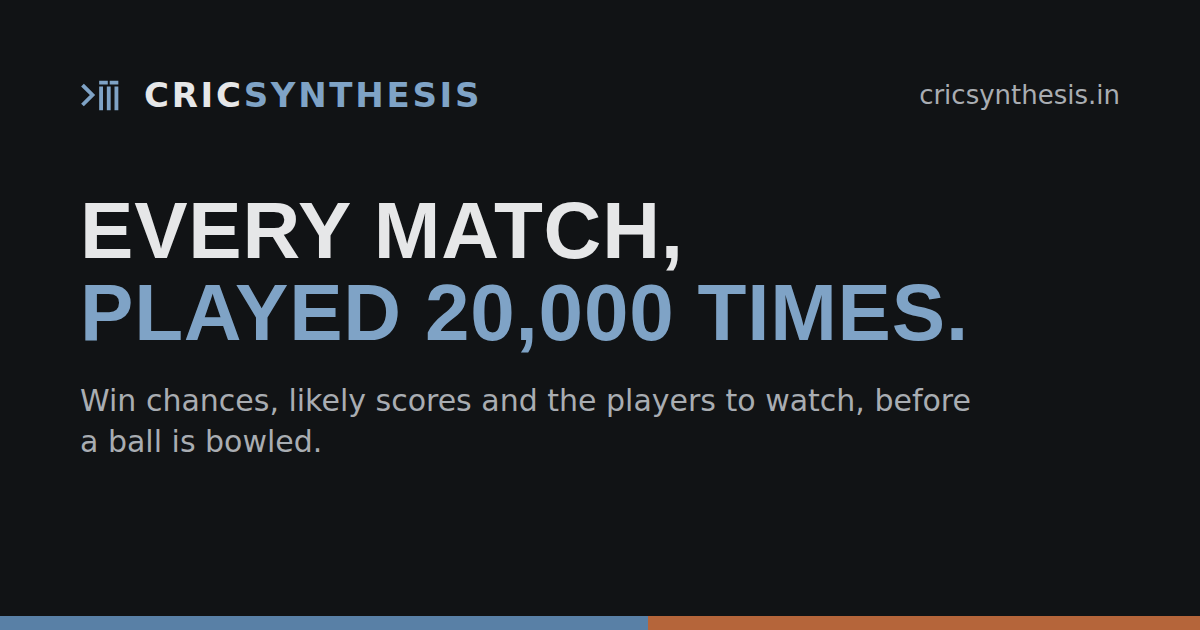
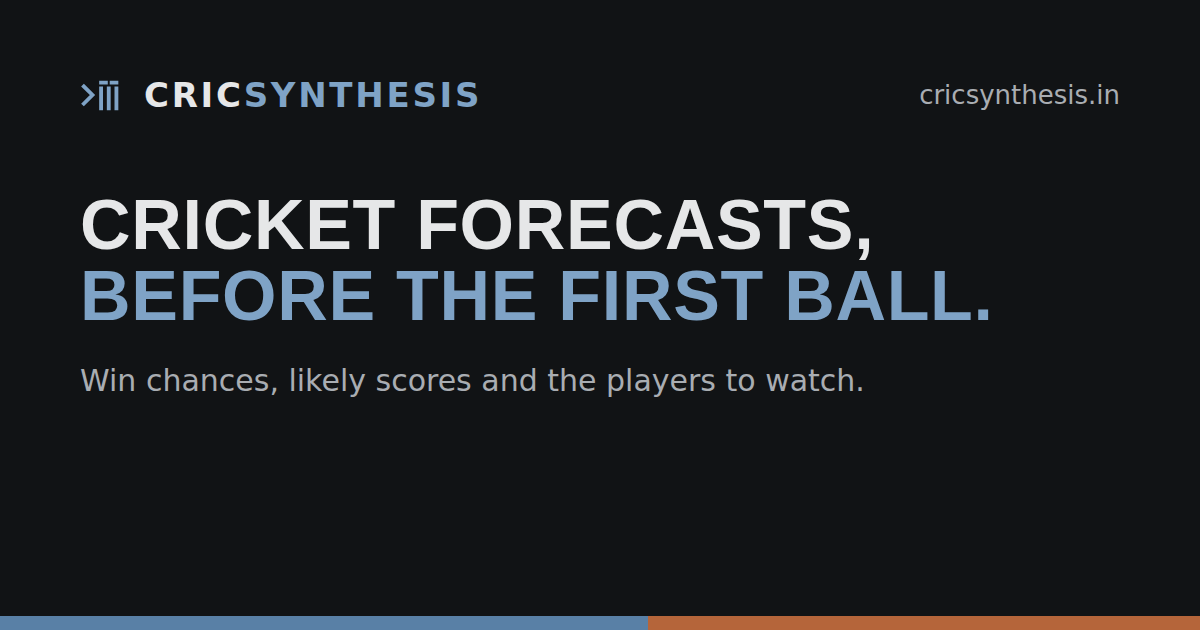
Copy: cut explanatory subtext, drop the simulation count from the site, plain chart legends

Changed region(s): [[0.0617, 0.3016, 0.8325, 0.7238]]

diff --git a/app/components/MatchCentre.tsx b/app/components/MatchCentre.tsx
@@ -57,8 +57,7 @@ export default function MatchCentre({ doc, initialTab }: { doc: MatchDoc; initia
   return (
     <div className="page-head" style={{ paddingTop: 40, paddingBottom: 80 }}>
       <h1 className="sr-only">{a} v {b}</h1>
-      <Scoreboard doc={doc} foot={<span className="sb-note">From <Num value={s.meta.simulations} /> simulated matches
-        {s.result.tie > 0.002 ? <>; tie {pct(s.result.tie, 1)}</> : null}.</span>} />
+      <Scoreboard doc={doc} foot={s.result.tie > 0.002 ? <span className="sb-note">Tie {pct(s.result.tie, 1)}</span> : undefined} />
 
       <ForecastTabs doc={doc} extra={
         <Link role="tab" className="tab-link" href={`/lab/?id=${encodeURIComponent(match.id)}`}>
@@ -67,9 +66,7 @@ export default function MatchCentre({ doc, initialTab }: { doc: MatchDoc; initia
           <span className="tag pro">Pro</span>
         </Link>} />
 
-      <p className="small muted" style={{ marginTop: 40 }}>
-        Simulated {new Date(doc.generated_at).toLocaleString()}. Probabilities, not predictions.
-      </p>
+      <p className="small muted" style={{ marginTop: 40 }}>Updated {new Date(doc.generated_at).toLocaleString("en-IN", { dateStyle: "medium", timeStyle: "short" })}</p>
     </div>
   );
 }
@@ -126,7 +123,7 @@ function Overview({ doc, live = true }: { doc: MatchDoc; live?: boolean }) {
           <div key={t.name} className="card">
             <h3>{t.name}: score range</h3>
             <p className="small" style={{ margin: "0 0 10px" }}>Projected <b>{Math.round(t.batting.score.q["50"])}</b>, likely <b>{range(t.batting.score.q, "25", "75")}</b>
-              <span className="muted"> · 80% of simulations {range(t.batting.score.q)}</span></p>
+              <span className="muted"> · 80% range {range(t.batting.score.q)}</span></p>
             <Histogram width={t.batting.score.hist.length > 1 ? t.batting.score.hist[1].from - t.batting.score.hist[0].from : 10}
                        height={180} xLabel="runs"
                        series={[{ name: t.name, color: COLORS[k], points: t.batting.score.hist.map((h) => ({ x: h.from, p: h.p })) }]} />
@@ -152,15 +149,14 @@ function Scores({ doc }: { doc: MatchDoc }) {
             <Seg label="View" value={mode} onChange={setMode} options={[["dist", "Distribution"], ["cdf", "Chance of reaching"]]} />
           </div>
         </div>
-        <p className="small muted" style={{ margin: "4px 0 8px" }}>Dashed line: median; bold band: likely range (middle 50%); faint band: middle 80%
-          {split === "all" ? " of all simulations." : split === "first" ? " when batting first." : " when chasing."}</p>
+        <p className="small muted" style={{ margin: "4px 0 8px" }}>Dashed line: median · bold band: likely range · faint band: 80% range</p>
         {legend}
         <Histogram W={1100} width={binWidth(s)} xLabel="runs" series={histSeries(s)} markers={markers(s, split)} mode={mode} height={260} />
       </div>
       <div className="grid g2"><RunFan s={s} /><Checkpoints s={s} /></div>
       <div className="card">
         <h3>Runs per over</h3>
-        <p className="small muted" style={{ margin: "0 0 8px" }}>Bars: expected runs in each over. Line: three-over rolling average.</p>
+        <p className="small muted" style={{ margin: "0 0 8px" }}>Line: three-over average</p>
         {legend}
         <OverBars W={1100} height={220} format={(v) => v.toFixed(1)} unit="runs" phases={s.meta.rules} rolling
                   series={s.teams.map((t, k) => ({ name: t.name, color: COLORS[k], values: t.batting.per_over.map((o) => o.runs) }))} />
@@ -199,7 +195,7 @@ function Wickets({ doc }: { doc: MatchDoc }) {
     <div className="grid">
       <div className="card">
         <h3>Chance of a wicket in each over</h3>
-        <p className="small muted" style={{ margin: "0 0 8px" }}>Dashed line: the average across both innings.</p>
+        <p className="small muted" style={{ margin: "0 0 8px" }}>Dashed line: average of both innings</p>
         <div className="legend">{s.teams.map((t, k) => <span key={t.name}><i style={{ background: COLORS[k] }} />{t.name} batting</span>)}</div>
         <OverBars W={1100} height={220} phases={s.meta.rules} average
                   series={s.teams.map((t, k) => ({ name: t.name, color: COLORS[k], values: t.batting.per_over.map((o) => o.p_wicket) }))} />
@@ -214,7 +210,7 @@ function TeamWickets({ t, color, overs, rules }: { t: TeamSummary; color: string
   return (
     <div className="card">
       <h3 style={{ color }}>When {t.name} lose wickets</h3>
-      <p className="small muted">Each row is a wicket; darker cells are the overs it most often falls in. The outlined, numbered cell is its likeliest over.</p>
+      <p className="small muted">Darker cells: overs each wicket most often falls in</p>
       <ExpectedWickets t={t} rules={rules} />
       <WicketHeatmap color={color} overs={overs} rows={fow.map((f) => ({ label: `Wkt ${f.wicket}`, values: f.by_over! }))} />
       <div className="table-wrap" style={{ marginTop: 16 }}><table>
@@ -261,7 +257,6 @@ function Players({ doc }: { doc: MatchDoc }) {
           </table></div>
         </div>
       ))}
-      <p className="small muted">Ratings combine every league and format a player has played, adjusted for opposition strength. Hover a name for where a player&apos;s rating comes from.</p>
     </div>
   );
 }
@@ -280,7 +275,6 @@ function Matchups({ doc }: { doc: MatchDoc }) {
   return (
     <div className="card">
       <h3>Key duels</h3>
-      <p className="small muted">How often each bowler dismisses each batter, across all simulations.</p>
       <div className="table-wrap"><table>
         <thead><tr><th>Bowler</th><th>Batter</th><th className="num">Dismissal share</th></tr></thead>
         <tbody>{s.matchups.slice(0, 25).map((m) => (
@@ -296,19 +290,15 @@ export function Spotlight({ doc }: { doc: MatchDoc }) {
   return (
     <>
       <div className="section">
-        <div className="section-head"><div><h2>How the innings unfold</h2>
-          <p>Where each total lands, the scoring and wicket rhythm over by over, and when each side&apos;s wickets fall.</p></div></div>
+        <div className="section-head"><div><h2>How the innings unfold</h2></div></div>
         <SpotlightCharts doc={doc} />
       </div>
       <div className="section">
-        <div className="section-head"><div><h2>Watch the engine</h2>
-          <p>The same simulator, running in your browser on this match. The estimate settles as more matches are played.</p></div></div>
+        <div className="section-head"><div><h2>Watch the engine</h2></div></div>
         <LiveEngine doc={doc} heading={false} />
       </div>
       <div className="section">
-        <div className="section-head"><div><h2>Range of outcomes</h2>
-          <p>Every forecast is a spread, not a single number: team totals over time, what a first-innings score is worth,
-            and each player&apos;s likely range.</p></div></div>
+        <div className="section-head"><div><h2>Range of outcomes</h2></div></div>
         <div className="grid">
           <div className="grid g2"><RunFan s={doc.summary} /><WinCurve s={doc.summary} /></div>
           <PlayerLadder s={doc.summary} />
@@ -326,8 +316,7 @@ function SpotlightCharts({ doc }: { doc: MatchDoc }) {
     <>
     <div className="card anim-rise">
       <h3>When wickets fall</h3>
-      <p className="small muted" style={{ margin: "0 0 4px" }}>Each row is a wicket; darker cells are the overs it most often falls in, and the
-        numbered cell is its likeliest over.</p>
+      <p className="small muted" style={{ margin: "0 0 4px" }}>Darker cells: overs each wicket most often falls in</p>
       <div className="grid g2" style={{ marginTop: 8 }}>
         {s.teams.map((t, k) => (
           <div key={t.name}>

diff --git a/app/components/Analysis.tsx b/app/components/Analysis.tsx
@@ -21,7 +21,7 @@ export function RunFan({ s }: { s: Summary }) {
   return (
     <div className="card anim-rise">
       <h3>Projected run fan</h3>
-      <p className="small muted">Cumulative runs by over. Line: median; dark band: middle 50% of simulations; light band: middle 80%.</p>
+      <p className="small muted">Line: median · dark band: likely range · light band: 80% range</p>
       <div className="legend">{s.teams.map((t, k) => <span key={t.name}><i style={{ background: COLORS[k] }} />{t.name}</span>)}</div>
       <ChartFrame W={W} H={H} top={pad.t} bottom={H - pad.b} label="run fan" columns={fans[0].map((r, i): Column => ({
         x0: sx(r.over - 0.5), x1: sx(r.over + 0.5), title: `After ${r.over} overs`,
@@ -65,8 +65,7 @@ export function WinCurve({ s }: { s: Summary }) {
   return (
     <div className="card anim-rise">
       <h3>What a first-innings total is worth</h3>
-      <p className="small muted">Chance the side batting first wins, by its total.{even ? <> Break-even around <b>{even.from}</b>.</> : null}
-        {" "}Dots are sized by how many simulations land in each band.</p>
+      {even ? <p className="small muted">Break-even around <b>{even.from}</b></p> : null}
       <ChartFrame W={W} H={H} top={pad.t} bottom={H - pad.b} label="win probability by first-innings total" columns={c.map((r): Column => ({
         x0: sx(r.from), x1: sx(r.to), title: `First innings ${r.from}–${r.to - 1}`,
         rows: [{ label: "Batting side wins", value: `${(100 * r.p_win).toFixed(0)}%` },
@@ -100,7 +99,7 @@ export function PlayerLadder({ s }: { s: Summary }) {
   return (
     <div className="card anim-rise">
       <h3>Player outcome ranges</h3>
-      <p className="small muted">Runs: whisker 10th–90th percentile, box the middle 50%, tick the median. Wickets: chance of 1, 2 and 3+.</p>
+      <p className="small muted">Whisker: 80% range · box: likely range · tick: median</p>
       <div className="grid g2">
         {s.teams.map((t, k) => {
           const bats = t.players.filter((p) => p.batting && (p.batting.p_bats ?? 1) > 0.5);
@@ -168,8 +167,7 @@ export function ChaseCurve({ s }: { s: Summary }) {
   return (
     <div className="card anim-rise">
       <h3>Chase curve</h3>
-      <p className="small muted">Chance the chasing side gets there, by target, with the required run rate underneath.
-        {even ? <> Below about <b>{even.target}</b> the chase is favoured.</> : null}</p>
+      {even ? <p className="small muted">Chase favoured below about <b>{even.target}</b></p> : null}
       <ChartFrame W={W} H={H} top={pad.t} bottom={H - pad.b} label="chase success by target" columns={pts.map((r): Column => ({
         x0: sx(r.from + 1), x1: sx(r.to + 1), title: `Target ${r.from + 1}–${r.to}`,
         rows: [{ label: "Chase succeeds", value: `${(100 * r.p).toFixed(0)}%` },
@@ -204,7 +202,6 @@ export function Checkpoints({ s }: { s: Summary }) {
   return (
     <div className="card anim-rise">
       <h3>Score checkpoints</h3>
-      <p className="small muted">Expected score and wickets after each stage, with the likely range (middle 50% of simulations).</p>
       <div className="table-wrap"><table className="checkpoints">
         <thead><tr><th>After</th>{s.teams.map((t, k) => <th key={t.name} className="num" style={{ color: COLORS[k] }}>{t.name}</th>)}</tr></thead>
         <tbody>{marks.map((o) => (

diff --git a/app/components/LiveEngine.tsx b/app/components/LiveEngine.tsx
@@ -76,9 +76,7 @@ export default function LiveEngine({ doc, heading = true }: { doc: MatchDoc; hea
       <div className="le-head">
         {heading ? <div>
           <h3>The engine, live</h3>
-          <p className="small muted" style={{ margin: 0 }}>The ball-by-ball simulator running in your browser on this match&apos;s XIs.
-            Each batch adds {BATCH} matches; the estimate settles as the 95% interval narrows.</p>
-        </div> : <p className="small muted" style={{ margin: 0 }}>Batches of {BATCH} matches, up to {TARGET.toLocaleString("en-IN")}.</p>}
+        </div> : <span />}
         <button className="btn ghost" onClick={() => setRun(run + 1)} disabled={!pack || (n > 0 && n < TARGET)}>
           {n >= TARGET ? "Run again" : n ? "Running…" : "Start"}
         </button>
@@ -125,7 +123,7 @@ function Convergence({ pts, published, name }: { pts: Point[]; published: number
         <g className="grid">{[0, 0.25, 0.5, 0.75, 1].map((f) => <line key={f} x1={pad.l} x2={W - pad.r} y1={sy(f)} y2={sy(f)} />)}</g>
         {[0, 0.5, 1].map((f) => <text key={f} x={pad.l - 6} y={sy(f) + 4} textAnchor="end">{100 * f}%</text>)}
         <line x1={pad.l} x2={W - pad.r} y1={sy(published)} y2={sy(published)} stroke="var(--cs-ink-3)" strokeDasharray="4 4" />
-        <text x={W - pad.r} y={sy(published) - 6} textAnchor="end">published (20,000 sims) {(100 * published).toFixed(0)}%</text>
+        <text x={W - pad.r} y={sy(published) - 6} textAnchor="end">published {(100 * published).toFixed(0)}%</text>
         {band && <polygon points={band} fill="var(--team-a)" fillOpacity=".15" />}
         {line && <polyline points={line} fill="none" stroke="var(--team-a)" strokeWidth="2" vectorEffect="non-scaling-stroke" />}
         {[0, 2500, 5000].map((v) => <text key={v} x={sx(v)} y={H - 8} textAnchor={v === 5000 ? "end" : v ? "middle" : "start"}>{v.toLocaleString("en-IN")}</text>)}

diff --git a/app/app/page.tsx b/app/app/page.tsx
@@ -43,7 +43,6 @@ function Featured({ doc }: { doc: MatchDoc }) {
       <Scoreboard doc={doc} mid={<When date={match.date} time={match.start_time} />} foot={<>
         <Link className="cs-btn cs-btn--primary" href={href}>Open match centre</Link>
         <Link className="cs-btn cs-btn--secondary" href={`/lab/?id=${encodeURIComponent(match.id)}`}>Open in MatchSynth Lab</Link>
-        <span className="sb-note">From <Num value={s.meta.simulations} /> simulated matches{ci ? <>, accurate to ±{(100 * ci).toFixed(1)} points</> : null}.</span>
       </>} />
       <Tiles s={s} short={short} />
     </section>
@@ -72,7 +71,7 @@ export default function Home() {
   return (
     <>
       <section id="next" style={{ paddingTop: "clamp(32px, 5vw, 56px)" }}>
-        <div className="section-head"><div><h2>Next match</h2><p>Forecast from ball-by-ball simulation of the likely playing XIs.</p></div>
+        <div className="section-head"><div><h2>Next match</h2></div>
           {matches && matches.length > 1 && <a href="#matches" className="row-link">All upcoming matches</a>}</div>
         {error && <p className="notice">Couldn&apos;t load matches right now.</p>}
         {!featured && !error && matches?.length !== 0 && <div className="skeleton" style={{ minHeight: 320 }} />}

diff --git a/app/components/ScenarioLab.tsx b/app/components/ScenarioLab.tsx
@@ -132,14 +132,11 @@ export default function ScenarioLab({ doc }: { doc: MatchDoc }) {
 
   return (
     <>
-      <Scoreboard doc={labDoc} foot={<span className="sb-note">Your scenario · <Num value={cur.meta.simulations} /> simulated matches
-        {busy ? " · updating…" : ""}</span>} />
+      <Scoreboard doc={labDoc} foot={<span className="sb-note">Your scenario{busy ? " · updating…" : ""}</span>} />
       <div className="lab-layout">
         <aside className="card grid lab-levers" style={{ gap: 18 }}>
           <div>
             <h3>Set the scene</h3>
-            <p className="small muted">Every change re-runs {N.toLocaleString()} simulations in your browser, and every view on the
-              right is rebuilt from them.</p>
           </div>
           <div className="lever">
             <label>Who bats first</label>
@@ -184,7 +181,6 @@ export default function ScenarioLab({ doc }: { doc: MatchDoc }) {
             <Movers now={cur} was={base} />
           </div>
           <ForecastTabs doc={labDoc} live={false} />
-          <p className="small muted">Every chart and table above comes from your scenario&apos;s simulations, not the published forecast.</p>
         </div>
       </div>
     </>

diff --git a/app/app/results/page.tsx b/app/app/results/page.tsx
@@ -72,7 +72,6 @@ function Results() {
 
       <div className="res-head">
         <h2>Matches</h2>
-        <p className="small muted">Latest first. Pick a match to see every projection against what happened.</p>
       </div>
       <div className="grid res-cards">
         {shown.map((m) => (
@@ -126,10 +125,8 @@ function Results() {
         </div>
       )}
 
-      <p className="small muted">How we check: a range "comes true" when the actual number lands inside the 80% range we showed (10th–90th
-        percentile), so a well-calibrated forecast lands about 8 in 10 of them; the misses are meant to happen too. Picks (the favourite, top
-        scorer, best bowler, key duels) come true when what happened was the one, or among the few, we rated most likely. Forecasts are
-        frozen at the start of play.</p>
+      <p className="small muted">A range counts when the result lands inside the 80% range we showed, so expect about 8 in 10. A pick counts
+        when the outcome was among our top choices. Forecasts lock at the start of play.</p>
     </div>
   );
 }

diff --git a/app/app/lab/page.tsx b/app/app/lab/page.tsx
@@ -55,8 +55,7 @@ export default function LabPage() {
     <div className="page-head" style={{ paddingBottom: 80 }}>
       <p className="cs-eyebrow">MatchSynth Lab <span className="tag pro">Pro</span></p>
       <h1><span>Change the match.</span><span>See what moves.</span></h1>
-      <p className="cs-lede">Set the toss, pitch, dew, player form and bowler availability, or start from any score. Every change
-        re-runs thousands of ball-by-ball simulations in your browser, and the full match centre is rebuilt from your scenario.</p>
+      <p className="cs-lede">Set the toss, pitch, dew, player form and who&apos;s available, or start from any score. The whole match centre updates with you.</p>
       <div style={{ marginTop: 32 }}>
         <RequireSignIn pro>
           <Suspense fallback={<div className="skeleton card" style={{ minHeight: 320 }} />}><Lab /></Suspense>

diff --git a/app/app/mcp/page.tsx b/app/app/mcp/page.tsx
@@ -47,9 +47,8 @@ export default function Mcp() {
     <div className="page-head">
       <p className="cs-eyebrow">Model Context Protocol</p>
       <h1><span>CricSynthesis MCP.</span><span>Cricket for AI assistants.</span></h1>
-      <p className="cs-lede">Ask Claude, ChatGPT desktop, Cursor or any MCP client about any player, ground, league or team, or
-        about an upcoming match. Answers come from a ball-by-ball model of every recorded delivery. Free, and it runs on
-        your own machine.</p>
+      <p className="cs-lede">Ask Claude, ChatGPT desktop, Cursor or any MCP client about a player, ground, league or upcoming match.
+        Free, and it runs on your own machine.</p>
 
       <h2 style={{ marginTop: 48 }}>Install</h2>
       <p className="muted" style={{ maxWidth: "62ch" }}>Needs <a href="https://docs.astral.sh/uv/">uv</a>. In Claude Desktop open

diff --git a/app/app/developers/page.tsx b/app/app/developers/page.tsx
@@ -33,8 +33,7 @@ export default function Developers() {
     <div className="page-head">
       <p className="cs-eyebrow">CricSynthesis API</p>
       <h1><span>Cricket intelligence.</span><span>One API.</span></h1>
-      <p className="cs-lede">{ENDPOINTS.length} endpoints for player and venue analytics, match simulation and decision modelling, and
-        broadcast-ready graphics, for fantasy platforms, broadcasters, media and franchise analysts.</p>
+      <p className="cs-lede">{ENDPOINTS.length} endpoints for player and venue analytics, match simulation and broadcast graphics.</p>
       <div className="cs-hero-ctas" style={{ marginTop: 24 }}>
         <Link className="cs-btn cs-btn--primary" href="/docs/">Read the docs</Link>
         <Link className="cs-btn cs-btn--secondary" href="/playground/">Open the playground</Link>

diff --git a/app/app/layout.tsx b/app/app/layout.tsx
@@ -7,7 +7,7 @@ import "./design.css";
 import { Footer, Nav } from "@/components/Shell";
 import { SITE, SITE_NAME, seo } from "@/lib/seo";
 
-const HOME_DESC = "Who wins, the likely scores and the players to watch. Pre-match cricket forecasts built by playing each game 20,000 times, ball by ball. Free to follow.";
+const HOME_DESC = "Who wins, the likely scores and the players to watch. Free pre-match forecasts for upcoming cricket matches, checked against every result.";
 
 export const metadata: Metadata = {
   metadataBase: new URL(SITE),
